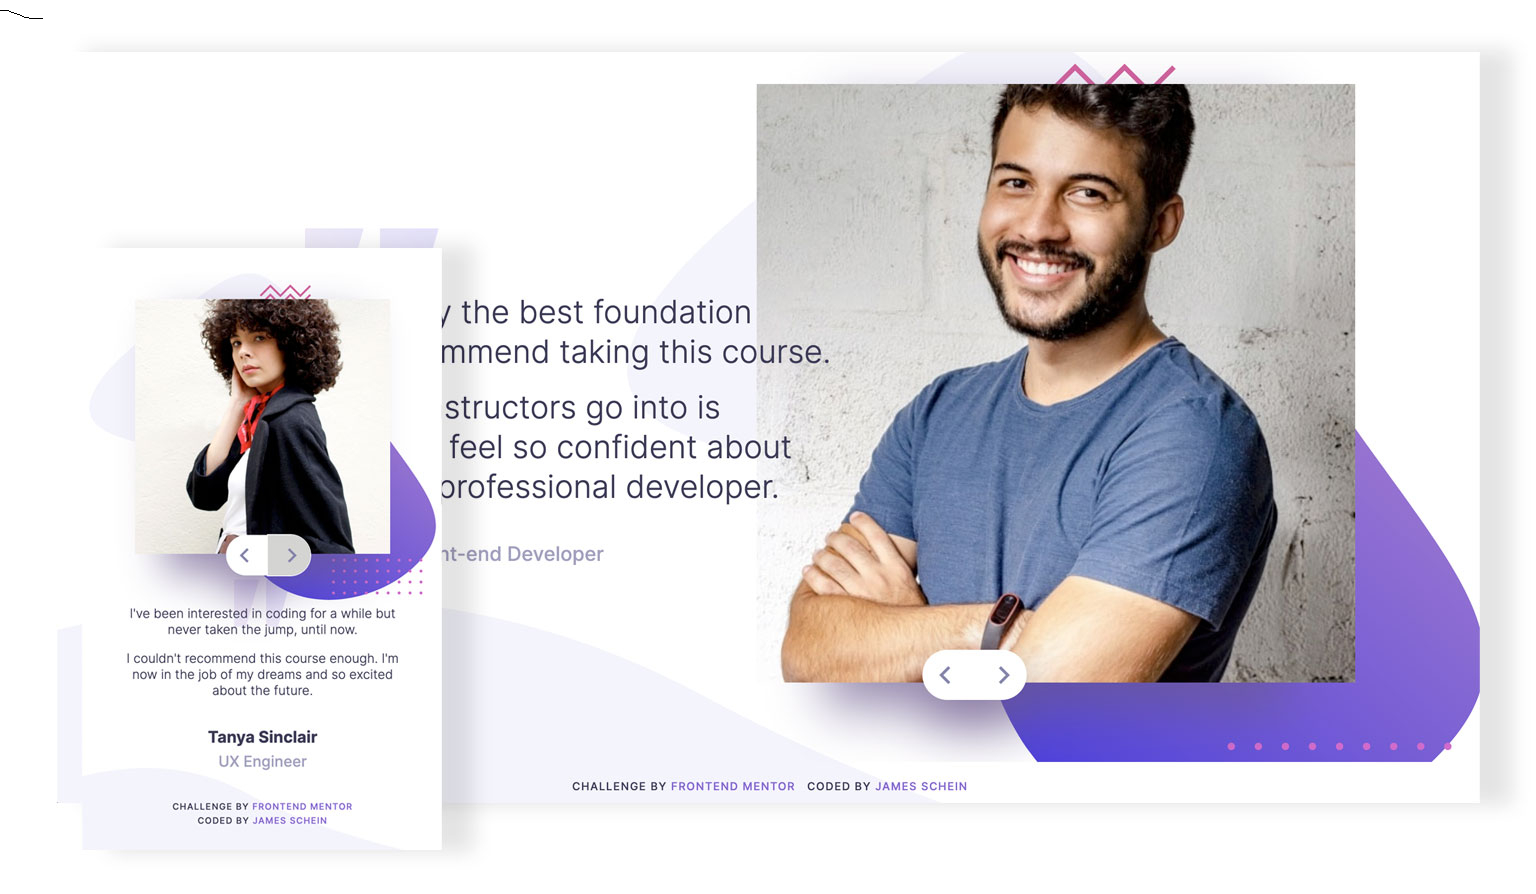
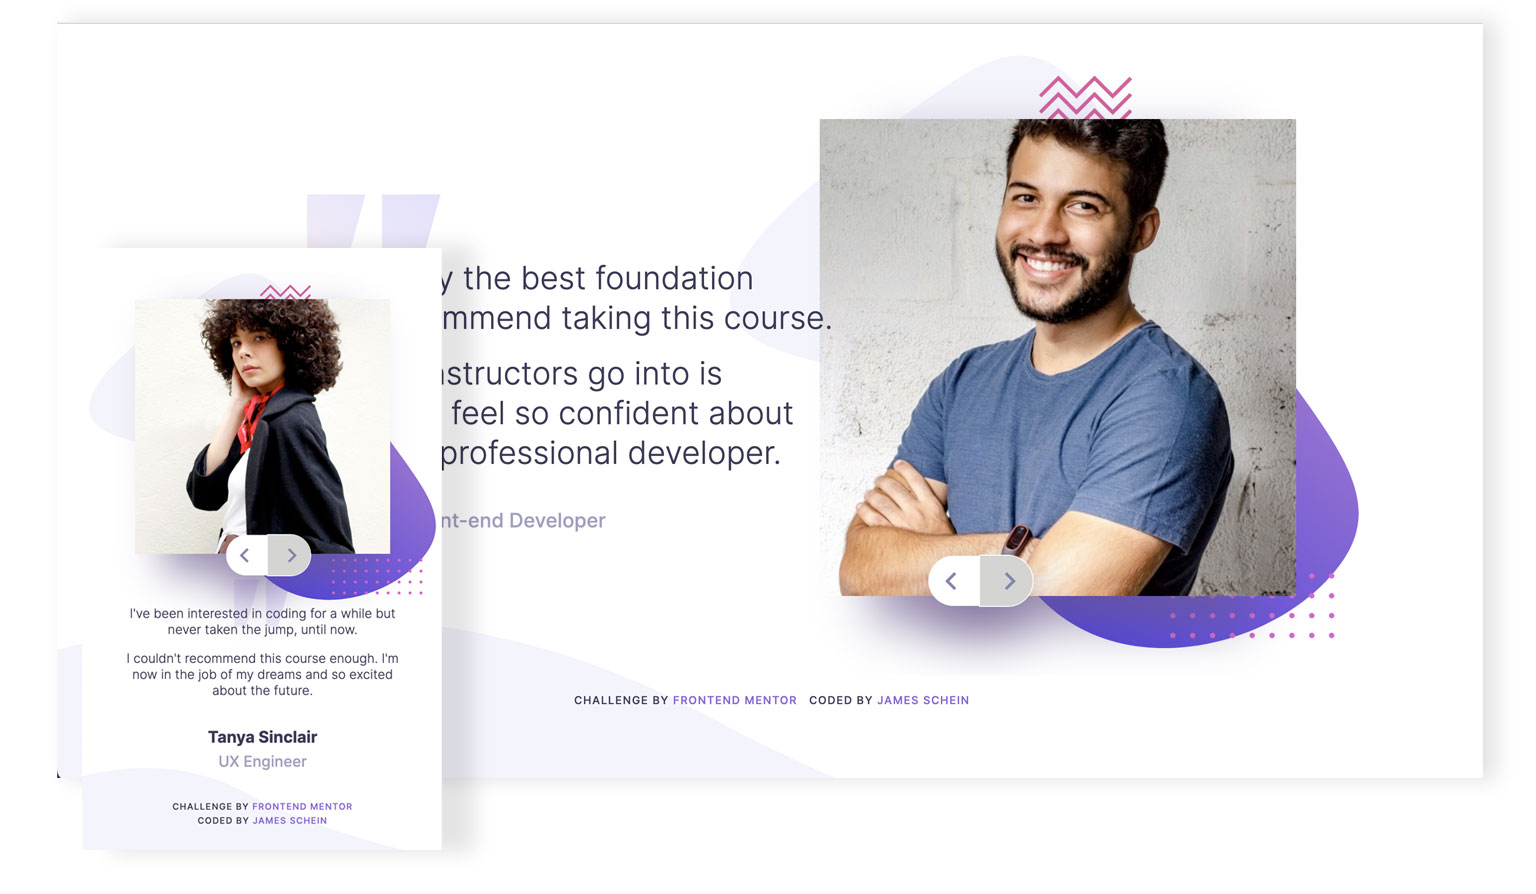
Fix image size

Changed region(s): [[0.2812, 0.0604, 0.9688, 0.8758], [0.375, 0.8758, 0.625, 0.906], [0.25, 0.2114, 0.2812, 0.2718]]

diff --git a/dist/css/style.min.css b/dist/css/style.min.css
@@ -1,1 +1,1 @@
-.m-1{margin:1rem}.my-1{margin:1rem 0}.p-1{padding:1rem}.py-1{padding:1rem 0}.m-2{margin:2rem}.my-2{margin:2rem 0}.p-2{padding:2rem}.py-2{padding:2rem 0}.m-3{margin:3rem}.my-3{margin:3rem 0}.p-3{padding:3rem}.py-3{padding:3rem 0}.m-4{margin:4rem}.my-4{margin:4rem 0}.p-4{padding:4rem}.py-4{padding:4rem 0}.m-5{margin:5rem}.my-5{margin:5rem 0}.p-5{padding:5rem}.py-5{padding:5rem 0}.btn-secondary,.btn-primary,nav a{display:inline-block;border-radius:5px;padding:8px 16px;margin:3px}.btn-secondary:hover,.btn-primary:hover,nav a:hover{transform:scale(0.98)}.btn-primary{background-color:#525175;color:#fff}.btn-secondary{background-color:#3d3c57;color:#fff}*,*::before,*::after{box-sizing:border-box;margin:0;padding:0}body{background-image:url("../assets/images/pattern-curve.svg");background-size:100%;background-repeat:repeat-x;background-position:50% 100%;font-family:"Inter",sans-serif;line-height:1.6;color:#3d3c57;margin:0;height:100vh;overflow:hidden}p{margin-block:0 1rem;font-size:1rem;line-height:1.25}a:link,a:visited{text-decoration:none}.container{overflow:hidden}.carousel{width:100vw;margin-block:32px 0;height:90%;position:relative;padding:0rem;overflow:hidden}.carousel .button-block{width:15%;display:flex;position:absolute;left:50%;z-index:200;margin-left:calc(-7.5% - .75rem);border-radius:50px;box-shadow:0px 25px 50px rgba(106,89,139,.7);background-color:rgba(0,0,0,0)}.carousel .button-block button{padding:.75rem .95rem;border:none;background-color:#fff;cursor:pointer}.carousel .button-block button:hover,.carousel .button-block button:focus{background-color:#d4d4d2;transition:background-color 100ms ease-in-out}.carousel .button-block button:focus{outline:1px solid #fff}.carousel .button-block button:nth-child(1){padding:1rem 1.5rem 1rem 1rem;border-top-left-radius:50px;border-bottom-left-radius:50px}.carousel .button-block button:nth-child(2){padding:1rem 1rem 1rem 1.5rem;border-top-right-radius:50px;border-bottom-right-radius:50px}.carousel .button-block button img{object-fit:contain;object-position:center;vertical-align:middle}.carousel ul.slider{width:max-content;display:flex;flex-direction:row;height:100%;top:0;left:0;list-style:none}.carousel ul.slider .profile-card{width:100vw;display:grid;grid-template-areas:"pic" "quote";background-image:url("../assets/images/pattern-bg.svg");background-size:96%;background-repeat:no-repeat;background-position:50% 0;padding:2rem 3rem 2rem;border-radius:10px;font-weight:300;text-align:center}.carousel ul.slider .profile-card .pic{grid-area:pic}.carousel ul.slider .profile-card .pic figure{box-shadow:0px 25px 50px rgba(106,89,139,.7);width:69%;margin:0 auto 2rem;text-align:center}.carousel ul.slider .profile-card .pic figure .profile-image{width:130%;height:auto;display:block;margin-left:-65%;position:relative;left:50%;object-fit:cover}.carousel ul.slider .profile-card .quote{display:grid;grid-template-areas:"profile-testimonial" "profile-header";grid-area:quote}.carousel ul.slider .profile-card .quote hgroup{grid-area:profile-header}.carousel ul.slider .profile-card .quote hgroup h2{color:#3d3c57;font-size:1.25rem}.carousel ul.slider .profile-card .quote hgroup h3{font-weight:500;color:#a2a1be}.carousel ul.slider .profile-card .quote blockquote{grid-area:profile-testimonial;background-image:url("../assets/images/pattern-quotes.svg");background-size:20%;background-repeat:no-repeat;background-position:50% 0;padding-block:2rem 1rem}footer{padding:0 1rem;display:flex;justify-content:center;align-items:center;text-transform:uppercase;letter-spacing:1px}footer .attribution{font-size:11px;text-align:center}footer .attribution a{color:#8768d1}footer .attribution span{display:block}@media only screen and (min-width: 536px){body{padding:0;background-position:0% 150%;overflow:auto}p{font-size:2rem;text-align:left}.container .carousel{width:100%}.container .carousel .button-block{width:7.25%;left:69%;top:74%}.container .carousel .slider .profile-card{display:grid;grid-template-areas:"quote . pic";grid-template-columns:44% 12% 44%;background-size:60%;background-position:100% 0;align-items:center;justify-content:center;padding:3rem 6rem 3rem 9rem}.container .carousel .slider .profile-card figure{width:50%;margin-top:1rem}.container .carousel .slider .profile-card .pic{grid-area:1/2/2/4}.container .carousel .slider .profile-card .quote{grid-area:1/1/1/3;z-index:2}.container .carousel .slider .profile-card .quote hgroup{display:flex;gap:1rem}.container .carousel .slider .profile-card .quote hgroup h3{font-size:1.25rem}.container .carousel .slider .profile-card .quote blockquote{padding-top:4rem;background-position:20% 0}.container .carousel .slider .profile-card .profile-image{width:120%;display:block;margin-left:-65%;position:relative;left:50%}footer{padding-block:1rem}footer .attribution span{display:inline;padding-inline:.25rem}}
+.m-1{margin:1rem}.my-1{margin:1rem 0}.p-1{padding:1rem}.py-1{padding:1rem 0}.m-2{margin:2rem}.my-2{margin:2rem 0}.p-2{padding:2rem}.py-2{padding:2rem 0}.m-3{margin:3rem}.my-3{margin:3rem 0}.p-3{padding:3rem}.py-3{padding:3rem 0}.m-4{margin:4rem}.my-4{margin:4rem 0}.p-4{padding:4rem}.py-4{padding:4rem 0}.m-5{margin:5rem}.my-5{margin:5rem 0}.p-5{padding:5rem}.py-5{padding:5rem 0}.btn-secondary,.btn-primary,nav a{display:inline-block;border-radius:5px;padding:8px 16px;margin:3px}.btn-secondary:hover,.btn-primary:hover,nav a:hover{transform:scale(0.98)}.btn-primary{background-color:#525175;color:#fff}.btn-secondary{background-color:#3d3c57;color:#fff}*,*::before,*::after{box-sizing:border-box;margin:0;padding:0}body{background-image:url("../assets/images/pattern-curve.svg");background-size:100%;background-repeat:repeat-x;background-position:50% 100%;font-family:"Inter",sans-serif;line-height:1.6;color:#3d3c57;margin:0;height:100vh;overflow:hidden}p{margin-block:0 1rem;font-size:1rem;line-height:1.25}a:link,a:visited{text-decoration:none}.container{overflow:hidden}.carousel{width:100vw;margin-block:32px 0;height:90%;position:relative;padding:0rem;overflow:hidden}.carousel .button-block{width:15%;display:flex;position:absolute;left:50%;z-index:200;margin-left:calc(-7.5% - .75rem);border-radius:50px;box-shadow:0px 25px 50px rgba(106,89,139,.7);background-color:rgba(0,0,0,0)}.carousel .button-block button{padding:.75rem .95rem;border:none;background-color:#fff;cursor:pointer}.carousel .button-block button:hover,.carousel .button-block button:focus{background-color:#d4d4d2;transition:background-color 100ms ease-in-out}.carousel .button-block button:focus{outline:1px solid #fff}.carousel .button-block button:nth-child(1){padding:1rem 1.5rem 1rem 1rem;border-top-left-radius:50px;border-bottom-left-radius:50px}.carousel .button-block button:nth-child(2){padding:1rem 1rem 1rem 1.5rem;border-top-right-radius:50px;border-bottom-right-radius:50px}.carousel .button-block button img{object-fit:contain;object-position:center;vertical-align:middle}.carousel ul.slider{width:max-content;display:flex;flex-direction:row;height:100%;top:0;left:0;list-style:none}.carousel ul.slider .profile-card{width:100vw;display:grid;grid-template-areas:"pic" "quote";background-image:url("../assets/images/pattern-bg.svg");background-size:96%;background-repeat:no-repeat;background-position:50% 0;padding:2rem 3rem 2rem;border-radius:10px;font-weight:300;text-align:center}.carousel ul.slider .profile-card .pic{grid-area:pic}.carousel ul.slider .profile-card .pic figure{box-shadow:0px 25px 50px rgba(106,89,139,.7);width:69%;margin:0 auto 2rem;text-align:center}.carousel ul.slider .profile-card .pic figure .profile-image{width:130%;height:auto;display:block;margin-left:-65%;position:relative;left:50%;object-fit:cover}.carousel ul.slider .profile-card .quote{display:grid;grid-template-areas:"profile-testimonial" "profile-header";grid-area:quote}.carousel ul.slider .profile-card .quote hgroup{grid-area:profile-header}.carousel ul.slider .profile-card .quote hgroup h2{color:#3d3c57;font-size:1.25rem}.carousel ul.slider .profile-card .quote hgroup h3{font-weight:500;color:#a2a1be}.carousel ul.slider .profile-card .quote blockquote{grid-area:profile-testimonial;background-image:url("../assets/images/pattern-quotes.svg");background-size:20%;background-repeat:no-repeat;background-position:50% 0;padding-block:2rem 1rem}footer{padding:0 1rem;display:flex;justify-content:center;align-items:center;text-transform:uppercase;letter-spacing:1px}footer .attribution{font-size:11px;text-align:center}footer .attribution a{color:#8768d1}footer .attribution span{display:block}@media only screen and (min-width: 536px){body{padding:0;background-position:0% 150%;overflow:auto}p{font-size:2rem;text-align:left}.container .carousel{width:100%}.container .carousel .button-block{width:7.25%;left:69%}.container .carousel ul.slider .profile-card{display:grid;grid-template-areas:"quote . pic";grid-template-columns:44% 12% 44%;background-size:44%;background-position:84% 0;align-items:center;justify-content:center;padding:3rem 6rem 3rem 9rem}.container .carousel ul.slider .profile-card figure{width:55%;margin-top:1rem}.container .carousel ul.slider .profile-card .pic{grid-area:1/2/2/4}.container .carousel ul.slider .profile-card .quote{grid-area:1/1/1/3;z-index:2}.container .carousel ul.slider .profile-card .quote hgroup{display:flex;gap:1rem}.container .carousel ul.slider .profile-card .quote hgroup h3{font-size:1.25rem}.container .carousel ul.slider .profile-card .quote blockquote{padding-top:4rem;background-position:20% 0}.container .carousel ul.slider .profile-card .profile-image{width:115%;display:block;margin-left:-65%;position:relative;left:50%}footer{padding-block:1rem}footer .attribution span{display:inline;padding-inline:.25rem}}

diff --git a/dist/css/style.css b/dist/css/style.css
@@ -282,42 +282,41 @@ footer .attribution span {
   .container .carousel .button-block {
     width: 7.25%;
     left: 69%;
-    top: 74%;
   }
-  .container .carousel .slider .profile-card {
+  .container .carousel ul.slider .profile-card {
     display: grid;
     grid-template-areas: "quote . pic";
     grid-template-columns: 44% 12% 44%;
-    background-size: 60%;
-    background-position: 100% 0;
+    background-size: 44%;
+    background-position: 84% 0;
     align-items: center;
     justify-content: center;
     padding: 3rem 6rem 3rem 9rem;
   }
-  .container .carousel .slider .profile-card figure {
-    width: 50%;
+  .container .carousel ul.slider .profile-card figure {
+    width: 55%;
     margin-top: 1rem;
   }
-  .container .carousel .slider .profile-card .pic {
+  .container .carousel ul.slider .profile-card .pic {
     grid-area: 1/2/2/4;
   }
-  .container .carousel .slider .profile-card .quote {
+  .container .carousel ul.slider .profile-card .quote {
     grid-area: 1/1/1/3;
     z-index: 2;
   }
-  .container .carousel .slider .profile-card .quote hgroup {
+  .container .carousel ul.slider .profile-card .quote hgroup {
     display: flex;
     gap: 1rem;
   }
-  .container .carousel .slider .profile-card .quote hgroup h3 {
+  .container .carousel ul.slider .profile-card .quote hgroup h3 {
     font-size: 1.25rem;
   }
-  .container .carousel .slider .profile-card .quote blockquote {
+  .container .carousel ul.slider .profile-card .quote blockquote {
     padding-top: 4rem;
     background-position: 20% 0;
   }
-  .container .carousel .slider .profile-card .profile-image {
-    width: 120%;
+  .container .carousel ul.slider .profile-card .profile-image {
+    width: 115%;
     display: block;
     margin-left: -65%;
     position: relative;

diff --git a/scss/_desktop.scss b/scss/_desktop.scss
@@ -19,22 +19,21 @@
       .button-block {
         width: 7.25%;
         left: 69%;
-        top: 74%;
       }
 
-      .slider {
+      ul.slider {
         .profile-card {
           display: grid;
           grid-template-areas: "quote . pic";
           grid-template-columns: 44% 12% 44%;
-          background-size: 60%;
-          background-position: 100% 0;
+          background-size: 44%;
+          background-position: 84% 0;
           align-items: center;
           justify-content: center;
           padding: 3rem 6rem 3rem 9rem;
 
           figure {
-            width: 50%;
+            width: 55%;
             margin-top: 1rem;
           }
 
@@ -62,7 +61,7 @@
           }
 
           .profile-image {
-            width: 120%;
+            width: 115%;
             display: block;
             margin-left: -65%;
             position: relative;

diff --git a/dist/script-carouselslider.js b/dist/script-carouselslider.js
@@ -150,7 +150,7 @@ document.addEventListener("DOMContentLoaded", function () {
     // JS THE BUTTON BLOC SO IT'S ALWAYS AT THE END OF THE IMAGE
     const placeButtons = function () {
       const btnBlk = document.querySelector(".button-block")
-      btnBlk.style.top = profilePics.clientWidth * 1.025 + "px"
+      btnBlk.style.top = profilePics.clientWidth * 1.05 + "px"
     }
     placeButtons()
     const carouselCards = document.querySelectorAll(".profile-card")
